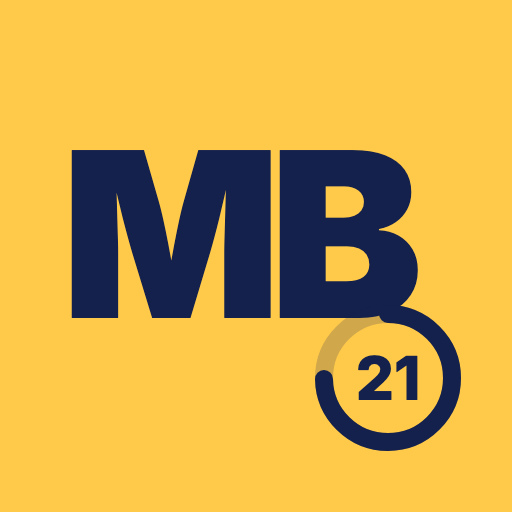
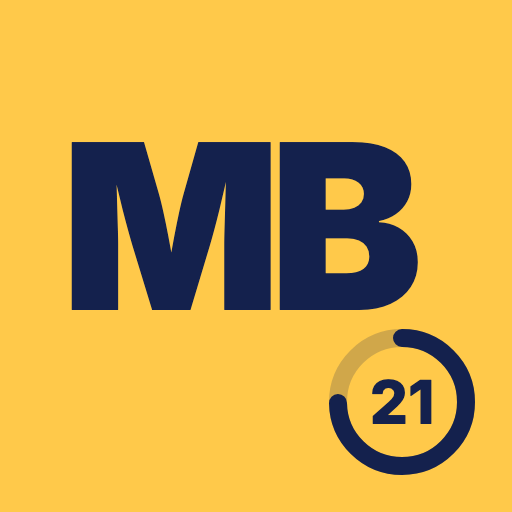
Pagine 122, correzione (Ignazio 28/10, via Regia, «sì»): la «B» staccata dall'anello: anello e «21» più in basso a destra (centro 402,402), «MB» un poco più su (base 310), circa 23 px di spazio; icone 32/180/192/512 e foto rifatte; nessun database

diff --git a/STRUTTURA.md b/STRUTTURA.md
@@ -1289,7 +1289,7 @@ Le 4 righe Partner/Cliente · Contatto · Richiamare/Appuntamento sono state agg
 - **Il colore della categoria è uno solo in tutta l'app** (Ignazio 19/09): tondo con le iniziali (coda, Lista, testata della scheda, Report aperto), barretta delle azioni nella scheda e **barretta degli appuntamenti in Agenda** (`classeCat(e.contatti.categoria)`; i colori per tipo di azione di `MB21Agenda.COLORI` restano solo nei calendari e nelle prove). Negli elenchi la riga resta **bianca**: la tinta `--cat-*-tinta` si usa solo dove c'è una persona sola (testata della scheda)
 - **Scorciatoie dello stile** (cantiere 34 lavoro 3, in `index.html`, usate da tutte le pagine): `ic(nome, px)` = `MB21Icone.icona` · `classeCat(categoria)` → `cat-prospect` · `cat-cliente` · `cat-partner` · `cat-ex` (anche Referral) · `cat-unlinked` · `cat-archiviato` · `cat-nessuna`: la classe dà alla card `--cat` (colore pieno) e `--cat-tinta` (fondo), regola `.card[class*="cat-"]` · `iniziali(nome)` → due lettere per la pastiglia `.rc-pastiglia` · `.pallino` (cerchietto colorato al posto delle emoji 🔵🟠🟢🟣🔴) · `.ic-vuoto` (cerchietto vuoto: passo non fatto). Le emoji di una pagina si sostituiscono con `python3 tools/design/emoji_in_icone.py <file.js> [prima_riga] [ultima_riga]`
 - **Lo stile dell'app** (cantiere 34, dal 19/09/2026): la fonte unica è `docs/MB21_Design.md` (direzione scelta da Ignazio in Claude Design: fondo perla, card bianche tonde, un solo accento «inchiostro», righe tinte del colore di categoria, 26 px fra le sezioni). In `index.html` i valori stanno **solo** nel blocco `:root` in cima al foglio di stile (`--sfondo`, `--superficie`, `--testo`, `--accento`, `--cat-*` e `--cat-*-tinta`, `--bbs` `--wes` `--cep`, `--ok` `--pericolo` `--proposta`, `--dim-*`, `--s1…s7`, `--raggio-*`, `--ombra-*`, `--bottone-h`, `--pill-h`, `--tocco`); il resto del foglio usa `var(--…)`. I nomi di prima (`--card`, `--grigio`, `--grigio-chiaro`, `--linea`, `--blu`, `--verde`, `--rosso`, `--prospect`, `--cliente`, `--partner`, `--ex`, `--unlinked`) restano come **alias** dei nuovi e si tolgono pagina per pagina. Regola: **le voci dell'app non cambiano**, cambia solo il vestito; un colore o una misura nuova si aggiunge a `:root` e al documento, mai scritta a mano in una pagina
-File: `index.html` (pagina unica, supabase-js da jsdelivr) · **`pagina-agenda.js`** (MB Plan, l'Agenda, cantiere 41: foglio del giorno, Settimana, Mese, Anno, modelli personali, cose da fare, Timeline, cerca, trascinamento — tutto il blocco «AGENDA» spostato così com'era da `index.html` il 23/09/2026, codice identico, circa 1.720 righe; si carica dopo `agenda.js` e prima dello script della pagina: solo definizioni e ascolti; lo stile resta in `index.html`; dove sotto si legge «in `index.html`» per le funzioni di MB Plan, ora è questo file; l'anteprima `tools/design/anteprima_agenda.js` lo rimette al suo posto per le prove) · **`core.js`** + **`pagina-core.js`** (cantiere 41: il Modulo Core del mese) + **`core-pdf.js`** (il Modulo Core in PDF, A4 su due colonne; jsPDF da jsdelivr) · **`libri.js`** (cantiere 40 lavoro 7: il diario di lettura dai Check, funzioni pure, prove in `tools/banco/prova_libri.js`) · **`pagina-libri.js`** (la pagina «I miei libri»: `apriLibri(ritorno)`, dal Profilo e da «Il mio percorso») · `coda.js` (motore della coda) · `lista.js` (logica della Lista Nomi) · **`sharing.js`** (cantiere 40: il consiglio della prossima traccia, funzioni pure, prove in `tools/banco/prova_sharing.js`) · **`training.js`** + **`pagina-training.js`** (cantieri 42 e 45, 24/09: la pagina Training — Impara, Ripassa, Studia —, accesa per tutti dal 24/09 sera; vedi sopra) · **`pagina-coach.js`** (cantiere 42: il coach collegato all'app, solo definizioni: `chiediRiflessione` dopo ogni esito, `chiediCoach` che apre il foglio della chat, legge `coach_batterie` e salva `azioni.riflessione`; il promemoria `caricaRicordi` e `ricordoHtml`; spostato da index.html il 24/09) · **`coach.js`** (cantiere 42: il coach che parla, quale chat vale per un esito, il montatore a imbuto, il motore della chat, il promemoria «Ti eri detto…»; i messaggi sono nella tabella `coach_batterie`; prove in `tools/banco/prova_coach.js`; al suo posto c'era `riflessione.js`, il foglietto, tolto il 24/09) · **`pagina-sharing.js`** (la sezione Sharing della scheda: `sezioneSharing`, `registraCondivisione`, `segnaAscoltata`, `condivisioneAMano`, `modificaCondivisione`, `chiediSesso`) · **`pagina-vendite.js`** (Vendite nella scheda contatto, cantiere 26: `sezioneVendite`, `venditeDellaScheda`, `moduloVendita`, `ordineFatto`, `mostraBrand`; spostata così com'era da `pagina-lista.js` il 18/09; si carica subito dopo `pagina-lista.js`. **Regola di Ignazio 18/09: ogni sezione della scheda contatto ha il suo file**, così sarà per Sharing e le prossime; i calcoli restano in `lista.js`) · `dashboard.js` (calcoli della Dashboard) · `agenda.js` (logica dell'Agenda) · `report.js` (calcoli del Report) · `check.js` (calcoli del Check) · `benvenuto.js` (testi e calcoli del benvenuto, cantiere 32) — separati per provarli con node · **`pagina-benvenuto.js`** (benvenuto per chi entra la prima volta, cantiere 32: le cinque schermate, la cerchia ristretta, la riga «📲» in Dashboard; nato già nel suo file) · **`admin.js`** (pagina Admin: menu, Utenti e richieste, Schede dei partner, Wes, BBS, Carica file Amway; spostata da `index.html` il 16/09, si carica prima dello script della pagina e usa le sue funzioni; in `index.html` restano i fogli condivisi `chiediConferma`, `foglioLinkInvito`, `domandaInvito`, `foglioRinnovo`) · **`pagina-mappa.js`** (pagina Mappa: albero, filtri, targhette, visione completa, e la lettura dei Segni Vitali `leggiSegniGrezzi`/`calcolatoreSegni` usata anche da Dashboard e Check; spostata da `index.html` il 17/09 nel cantiere 20, codice identico) · **`pagina-dashboard.js`** (pagina Dashboard/OGGI: coda, Da catalogare, conferme, numeri, Obiettivi, Check del Giorno; spostata da `index.html` il 17/09 come `admin.js`, codice identico; serve anche ad altre pagine per `caricaOggi`, `registraEsito`, `annullaEsito`, `chiediData`, `bottoniPer`, `appuntamentoDaCoda`, `dataBreve`, `CONF`, `CAMPI_AZIONE`; `mostraToast` resta in `index.html`) · **`pagina-lista.js`** (pagina Lista Nomi: elenco e filtri, scheda contatto, Nuovo Contatto / Modifica; spostata da `index.html` il 17/09, codice identico; definisce anche `LS`, `eAdmin`, `apriContattoDa`, `rigaPortato` usati da altre pagine; il foglio unico «Modifica azione» resta in `index.html` perché serve a Report, Agenda e scheda) · **`avvisi.js`** (avvisi push, cantiere 24: stato del dispositivo, attiva/spegni/prova; dal cantiere 25 i bottoni stanno nel Profilo) · **`pagina-profilo.js`** (pagina «Profilo», cantiere 25: cerchietto con le iniziali in Dashboard, dati della persona, telefono, Contatti al giorno, avvisi, «✨ Novità dell'app», Cambia password, Esci) · **`pagina-novita.js`** (la parte che si vede di «✨ Novità» e di «C'è una versione più recente»: `controllaNovita`, `foglioNovita`, `ultimaVersione`, `foglioVersione`, `versione()` con i suoi due ascolti; spostata da `index.html` il 18/09 su richiesta di Ignazio, codice identico; si carica subito dopo `novita.js`; dove sotto si legge «in `index.html`» per queste funzioni, ora è questo file; in `index.html` resta solo la chiamata in `dopoAccesso`) · **`novita.js`** («✨ Novità», cantiere 28, 18/09: `ELENCO` delle novità che i partner vedono, una riga = `quando` come `APP_VERSION` · `titolo` · `testo`; dal 18/09 sera anche `pagina` (`PAGINE`: dashboard · agenda · lista · report · mappa · app): il foglio mostra le novità **raggruppate per pagina** con `MB21Novita.perPagina(elenco)` (ordine delle tab in basso, «📱 Tutta l'app» in fondo, solo i gruppi con qualcosa; pagina sconosciuta → «Tutta l'app») e **solo i titoli**: toccando un titolo (`<details>`) si apre il testo con la data; **regola: a ogni modifica visibile ai partner si aggiunge una riga in cima, nello stesso commit**; le modifiche invisibili e quelle solo per l'Admin non si scrivono. `MB21Novita.daMostrare(elenco, vistaFino, ultimoUso)` → `{ nuove, altre, segna }`: primo ingresso (`ultimo_uso` vuoto) = niente foglio e si ricorda l'ultima novità; altrimenti le novità dopo l'ultimo «Ho capito», al massimo 10 (`MASSIMO`) + «vedi tutte». In `index.html`: `dopoAccesso` legge `utenti.ultimo_uso` **prima** di `segna_uso()`, poi `controllaNovita(ultimoUso)` → `foglioNovita(r, ultimoUso)` («✨ Novità dall'ultima volta», sotto «**Ultimo ingresso: GG/MM/AAAA · HH:MM**» con `MB21Novita.momentoLeggibile`, stesso formato della data delle novità per confrontare le ore; bottone «Ho capito»); `foglioNovita()` senza argomenti = elenco completo (dal Profilo e da «vedi tutte»), con la riga «La tua versione: …» (`APP_VERSION`) sotto il titolo. Il foglio torna a ogni apertura finché non si tocca «Ho capito»: fino a quale novità è stato toccato si ricorda **sul dispositivo** (`localStorage`, chiave `mb21_novita_<id utente>`), niente nel database; per le prove, aprendo l'app con **`?novita=rivedi`** il dispositivo dimentica «Ho capito» e il foglio torna; telefono nuovo = si rivedono una volta le ultime 10. Se c'è da scegliere la password il foglio delle novità aspetta l'apertura dopo; offline o con la memoria del dispositivo bloccata non si apre niente e l'app parte lo stesso. **«C'è una versione più recente»** (lavoro 4, 18/09): all'apertura la pagina è già l'ultima (`sw.js`: prima la rete); quando l'app **torna in primo piano** (`visibilitychange`, al massimo ogni 30 minuti, solo da entrati) `ultimaVersione()` rilegge la pagina pubblicata (`fetch(location.pathname, no-store)`) e `MB21Novita.versioneDa(testo)` ne estrae la `APP_VERSION`; se `MB21Novita.piuRecente(ultima, APP_VERSION)` → `foglioVersione(ultima)`: «La tua versione · Ultima versione · Ti consigliamo di aggiornare», «Più tardi» (per quella versione non lo richiede fino alla prossima apertura) · «Aggiorna ora» (`location.reload()`). Nessun file di versione a parte da tenere allineato. Offline o errore: niente. Nel foglio «Novità dell'app» del Profilo accanto a «La tua versione» compare «✅ è l'ultima» oppure «🔄 Ultima versione: … · Aggiorna ora». **Riga in fondo a ogni pagina** (18/09 sera): `versione()` (unica, usata da tutte le pagine) scrive «✨ Novità · Versione GG/MM/AAAA · HH:MM» e si tocca (un solo ascolto dei tocchi su `.versione`) → `foglioNovita()`; quando `ultimaVersione()` scopre una versione più recente la ricorda in `VER.ultima` e riscrive subito le righe presenti in «🔄 C'è una versione più recente · tocca per aggiornare» (`.versione.nuova`, blu) → `foglioVersione`. Sotto «Ho capito» la riga «Le ritrovi quando vuoi: tocca «✨ Novità» in fondo a ogni pagina». 9 prove in `tools/banco/prova_novita.js`) · `sw.js` (copia offline **e ricezione degli avvisi push**: `push` mostra la notifica, `notificationclick`: con l'app **chiusa** la apre sull'indirizzo dell'avviso; con l'app **già aperta** la porta davanti e le manda il messaggio `{ tipo: 'apri-avviso', url }` (dal 24/09: prima `navigate()`, che sull'iPhone non funzionava e lasciava la Dashboard). In `index.html` **`preparaApertura(parametri)`**, una sola per i due casi (anche `dopoAccesso` la usa): `?apri=agenda` → MB Plan **vista Giorno** di `giorno` (o oggi) con `azione` già aperta · `?apri=check` · `?apri=lista&contatto=…&sezione=…`; il messaggio chiude i fogli aperti (`.velo`) e chiama `mostraTab()` senza ricaricare; un indirizzo senza `apri` (traccia da ascoltare, prova) porta alla Dashboard) · `manifest.webmanifest` · `icone/` (icona dell'app `icona-32/180/192/512.png`, angoli quadrati perché li arrotonda il telefono: dal 28/10/2026 il «Bollino ad anello», proposta 3C della tela Design «Logo MB21» — fondo `#FFC94A`, «MB» blu `#14214D`, anello al 75% con «21» —, al posto della stella cometa; nota Pagine 122; il testo è già nell'immagine, disegnata con Inter da Chrome senza finestra; la copia `v4/` tiene l'icona vecchia).
+File: `index.html` (pagina unica, supabase-js da jsdelivr) · **`pagina-agenda.js`** (MB Plan, l'Agenda, cantiere 41: foglio del giorno, Settimana, Mese, Anno, modelli personali, cose da fare, Timeline, cerca, trascinamento — tutto il blocco «AGENDA» spostato così com'era da `index.html` il 23/09/2026, codice identico, circa 1.720 righe; si carica dopo `agenda.js` e prima dello script della pagina: solo definizioni e ascolti; lo stile resta in `index.html`; dove sotto si legge «in `index.html`» per le funzioni di MB Plan, ora è questo file; l'anteprima `tools/design/anteprima_agenda.js` lo rimette al suo posto per le prove) · **`core.js`** + **`pagina-core.js`** (cantiere 41: il Modulo Core del mese) + **`core-pdf.js`** (il Modulo Core in PDF, A4 su due colonne; jsPDF da jsdelivr) · **`libri.js`** (cantiere 40 lavoro 7: il diario di lettura dai Check, funzioni pure, prove in `tools/banco/prova_libri.js`) · **`pagina-libri.js`** (la pagina «I miei libri»: `apriLibri(ritorno)`, dal Profilo e da «Il mio percorso») · `coda.js` (motore della coda) · `lista.js` (logica della Lista Nomi) · **`sharing.js`** (cantiere 40: il consiglio della prossima traccia, funzioni pure, prove in `tools/banco/prova_sharing.js`) · **`training.js`** + **`pagina-training.js`** (cantieri 42 e 45, 24/09: la pagina Training — Impara, Ripassa, Studia —, accesa per tutti dal 24/09 sera; vedi sopra) · **`pagina-coach.js`** (cantiere 42: il coach collegato all'app, solo definizioni: `chiediRiflessione` dopo ogni esito, `chiediCoach` che apre il foglio della chat, legge `coach_batterie` e salva `azioni.riflessione`; il promemoria `caricaRicordi` e `ricordoHtml`; spostato da index.html il 24/09) · **`coach.js`** (cantiere 42: il coach che parla, quale chat vale per un esito, il montatore a imbuto, il motore della chat, il promemoria «Ti eri detto…»; i messaggi sono nella tabella `coach_batterie`; prove in `tools/banco/prova_coach.js`; al suo posto c'era `riflessione.js`, il foglietto, tolto il 24/09) · **`pagina-sharing.js`** (la sezione Sharing della scheda: `sezioneSharing`, `registraCondivisione`, `segnaAscoltata`, `condivisioneAMano`, `modificaCondivisione`, `chiediSesso`) · **`pagina-vendite.js`** (Vendite nella scheda contatto, cantiere 26: `sezioneVendite`, `venditeDellaScheda`, `moduloVendita`, `ordineFatto`, `mostraBrand`; spostata così com'era da `pagina-lista.js` il 18/09; si carica subito dopo `pagina-lista.js`. **Regola di Ignazio 18/09: ogni sezione della scheda contatto ha il suo file**, così sarà per Sharing e le prossime; i calcoli restano in `lista.js`) · `dashboard.js` (calcoli della Dashboard) · `agenda.js` (logica dell'Agenda) · `report.js` (calcoli del Report) · `check.js` (calcoli del Check) · `benvenuto.js` (testi e calcoli del benvenuto, cantiere 32) — separati per provarli con node · **`pagina-benvenuto.js`** (benvenuto per chi entra la prima volta, cantiere 32: le cinque schermate, la cerchia ristretta, la riga «📲» in Dashboard; nato già nel suo file) · **`admin.js`** (pagina Admin: menu, Utenti e richieste, Schede dei partner, Wes, BBS, Carica file Amway; spostata da `index.html` il 16/09, si carica prima dello script della pagina e usa le sue funzioni; in `index.html` restano i fogli condivisi `chiediConferma`, `foglioLinkInvito`, `domandaInvito`, `foglioRinnovo`) · **`pagina-mappa.js`** (pagina Mappa: albero, filtri, targhette, visione completa, e la lettura dei Segni Vitali `leggiSegniGrezzi`/`calcolatoreSegni` usata anche da Dashboard e Check; spostata da `index.html` il 17/09 nel cantiere 20, codice identico) · **`pagina-dashboard.js`** (pagina Dashboard/OGGI: coda, Da catalogare, conferme, numeri, Obiettivi, Check del Giorno; spostata da `index.html` il 17/09 come `admin.js`, codice identico; serve anche ad altre pagine per `caricaOggi`, `registraEsito`, `annullaEsito`, `chiediData`, `bottoniPer`, `appuntamentoDaCoda`, `dataBreve`, `CONF`, `CAMPI_AZIONE`; `mostraToast` resta in `index.html`) · **`pagina-lista.js`** (pagina Lista Nomi: elenco e filtri, scheda contatto, Nuovo Contatto / Modifica; spostata da `index.html` il 17/09, codice identico; definisce anche `LS`, `eAdmin`, `apriContattoDa`, `rigaPortato` usati da altre pagine; il foglio unico «Modifica azione» resta in `index.html` perché serve a Report, Agenda e scheda) · **`avvisi.js`** (avvisi push, cantiere 24: stato del dispositivo, attiva/spegni/prova; dal cantiere 25 i bottoni stanno nel Profilo) · **`pagina-profilo.js`** (pagina «Profilo», cantiere 25: cerchietto con le iniziali in Dashboard, dati della persona, telefono, Contatti al giorno, avvisi, «✨ Novità dell'app», Cambia password, Esci) · **`pagina-novita.js`** (la parte che si vede di «✨ Novità» e di «C'è una versione più recente»: `controllaNovita`, `foglioNovita`, `ultimaVersione`, `foglioVersione`, `versione()` con i suoi due ascolti; spostata da `index.html` il 18/09 su richiesta di Ignazio, codice identico; si carica subito dopo `novita.js`; dove sotto si legge «in `index.html`» per queste funzioni, ora è questo file; in `index.html` resta solo la chiamata in `dopoAccesso`) · **`novita.js`** («✨ Novità», cantiere 28, 18/09: `ELENCO` delle novità che i partner vedono, una riga = `quando` come `APP_VERSION` · `titolo` · `testo`; dal 18/09 sera anche `pagina` (`PAGINE`: dashboard · agenda · lista · report · mappa · app): il foglio mostra le novità **raggruppate per pagina** con `MB21Novita.perPagina(elenco)` (ordine delle tab in basso, «📱 Tutta l'app» in fondo, solo i gruppi con qualcosa; pagina sconosciuta → «Tutta l'app») e **solo i titoli**: toccando un titolo (`<details>`) si apre il testo con la data; **regola: a ogni modifica visibile ai partner si aggiunge una riga in cima, nello stesso commit**; le modifiche invisibili e quelle solo per l'Admin non si scrivono. `MB21Novita.daMostrare(elenco, vistaFino, ultimoUso)` → `{ nuove, altre, segna }`: primo ingresso (`ultimo_uso` vuoto) = niente foglio e si ricorda l'ultima novità; altrimenti le novità dopo l'ultimo «Ho capito», al massimo 10 (`MASSIMO`) + «vedi tutte». In `index.html`: `dopoAccesso` legge `utenti.ultimo_uso` **prima** di `segna_uso()`, poi `controllaNovita(ultimoUso)` → `foglioNovita(r, ultimoUso)` («✨ Novità dall'ultima volta», sotto «**Ultimo ingresso: GG/MM/AAAA · HH:MM**» con `MB21Novita.momentoLeggibile`, stesso formato della data delle novità per confrontare le ore; bottone «Ho capito»); `foglioNovita()` senza argomenti = elenco completo (dal Profilo e da «vedi tutte»), con la riga «La tua versione: …» (`APP_VERSION`) sotto il titolo. Il foglio torna a ogni apertura finché non si tocca «Ho capito»: fino a quale novità è stato toccato si ricorda **sul dispositivo** (`localStorage`, chiave `mb21_novita_<id utente>`), niente nel database; per le prove, aprendo l'app con **`?novita=rivedi`** il dispositivo dimentica «Ho capito» e il foglio torna; telefono nuovo = si rivedono una volta le ultime 10. Se c'è da scegliere la password il foglio delle novità aspetta l'apertura dopo; offline o con la memoria del dispositivo bloccata non si apre niente e l'app parte lo stesso. **«C'è una versione più recente»** (lavoro 4, 18/09): all'apertura la pagina è già l'ultima (`sw.js`: prima la rete); quando l'app **torna in primo piano** (`visibilitychange`, al massimo ogni 30 minuti, solo da entrati) `ultimaVersione()` rilegge la pagina pubblicata (`fetch(location.pathname, no-store)`) e `MB21Novita.versioneDa(testo)` ne estrae la `APP_VERSION`; se `MB21Novita.piuRecente(ultima, APP_VERSION)` → `foglioVersione(ultima)`: «La tua versione · Ultima versione · Ti consigliamo di aggiornare», «Più tardi» (per quella versione non lo richiede fino alla prossima apertura) · «Aggiorna ora» (`location.reload()`). Nessun file di versione a parte da tenere allineato. Offline o errore: niente. Nel foglio «Novità dell'app» del Profilo accanto a «La tua versione» compare «✅ è l'ultima» oppure «🔄 Ultima versione: … · Aggiorna ora». **Riga in fondo a ogni pagina** (18/09 sera): `versione()` (unica, usata da tutte le pagine) scrive «✨ Novità · Versione GG/MM/AAAA · HH:MM» e si tocca (un solo ascolto dei tocchi su `.versione`) → `foglioNovita()`; quando `ultimaVersione()` scopre una versione più recente la ricorda in `VER.ultima` e riscrive subito le righe presenti in «🔄 C'è una versione più recente · tocca per aggiornare» (`.versione.nuova`, blu) → `foglioVersione`. Sotto «Ho capito» la riga «Le ritrovi quando vuoi: tocca «✨ Novità» in fondo a ogni pagina». 9 prove in `tools/banco/prova_novita.js`) · `sw.js` (copia offline **e ricezione degli avvisi push**: `push` mostra la notifica, `notificationclick`: con l'app **chiusa** la apre sull'indirizzo dell'avviso; con l'app **già aperta** la porta davanti e le manda il messaggio `{ tipo: 'apri-avviso', url }` (dal 24/09: prima `navigate()`, che sull'iPhone non funzionava e lasciava la Dashboard). In `index.html` **`preparaApertura(parametri)`**, una sola per i due casi (anche `dopoAccesso` la usa): `?apri=agenda` → MB Plan **vista Giorno** di `giorno` (o oggi) con `azione` già aperta · `?apri=check` · `?apri=lista&contatto=…&sezione=…`; il messaggio chiude i fogli aperti (`.velo`) e chiama `mostraTab()` senza ricaricare; un indirizzo senza `apri` (traccia da ascoltare, prova) porta alla Dashboard) · `manifest.webmanifest` · `icone/` (icona dell'app `icona-32/180/192/512.png`, angoli quadrati perché li arrotonda il telefono: dal 28/10/2026 il «Bollino ad anello», proposta 3C della tela Design «Logo MB21» — fondo `#FFC94A`, «MB» blu `#14214D`, anello al 75% con «21» —, al posto della stella cometa; rispetto alla tela l'anello è più in basso a destra (centro 402,402, «21» a base 424) e «MB» un poco più su (base 310), così la «B» non tocca l'anello: circa 23 px di spazio nel quadrato da 512, Ignazio 28/10; nota Pagine 122; il testo è già nell'immagine, disegnata con Inter da Chrome senza finestra; la copia `v4/` tiene l'icona vecchia).
 
 - **Registrazione** (cantiere 19, decisioni di Ignazio 16/09: approva **solo l'Admin**, codice Amway obbligatorio): indirizzo con `?registrati` (e `&da=<id utente>`) **senza essere entrati** → modulo «Registrati a MB21» (nome e cognome, email, telefono, codice Amway) → `richiedi_accesso` → «Richiesta inviata ✅» o messaggio (troppe, dati; dal 03/10, Fondamenta 035, migrazione `20261003100000` da applicare al rilascio: email già di un utente o richiesta già in attesa → «ok» come a tutti, così chi prova email a caso non scopre chi usa l'app; freno di 3 richieste al giorno per email, globale 100 l'ora invece di 20). «Sono già registrato: entra» toglie `?registrati` e mostra l'accesso. Da entrati il link apre l'app normale. **Invito del partner** (Ignazio 16/09): quando un contatto **diventa Partner** (Modifica / Nuovo contatto, «Da catalogare», Nuovo appuntamento con categoria cambiata; non da «Crea la scheda» della Mappa) compare `domandaInvito`: «<nome> è diventato Partner · Vuoi invitarlo nell'app MB21?» → **🔗 Invita nell'app MB21** o Annulla. Nella **scheda contatto di ogni Partner** c'è «🔗 Invita nell'app MB21» **oppure la targhetta «✅ Utente MB21»** se la persona è già utente dell'app (Ignazio 17/09; `mostraInvito` → **`e_utente_mb21(contatto)`**, migrazione `20260917130000_e_utente_mb21.sql`, `security definer` perché ogni partner legge solo la propria riga di `utenti`; risponde solo sì/no): **codice Amway della scheda → email di `squadra` (file Amway) → utente con quella email**, eliminati esclusi. Niente confronto per nome (ognuno lo scrive come vuole: Tonya/Antonina) né per solo codice (la coppia lo condivide; in Amway c'è uno solo dei due e la sua è l'unica scheda col codice, quindi il compagno/a tiene il bottone finché non si registra). **Collegamento a mano dell'Admin** (migrazione `20260917133000_utente_mb21_collegato.sql`): `contatti.utente_id` → `utenti.id`, scritto solo da **`collega_utente_mb21(contatto, utente)`** (solo Admin; `null` scollega) dal bottone «🔗 È già utente MB21: collega» nella scheda (menu degli utenti non eliminati) / «✕ Scollega dall'utente»; `e_utente_mb21` restituisce `'collegato'` · `'amway'` · null. **In Lista Nomi** targhetta viola **«MB21»** accanto al nome (card e scheda) da **`schede_utenti_mb21()`** (solo gli id, letti all'apertura della Lista con le targhette; `LS.mb21`, `segnaMb21` scrive `r.mb21` sulle righe) e parola **«mb21»** in Cerca (`corrisponde` in `lista.js`) per vederli tutti. Il foglio `foglioLinkInvito({ da, nome, telefono })`: link con `da` = **proprietario della lista** (lo sponsor, anche se è l'Admin a toccare con il Partner Select), messaggio «Ciao <nome>, registrati all'app MB21 da questo link: …» **nel riquadro, modificabile** (Copia il messaggio, WhatsApp, Telegram, SMS e Altre app mandano il testo com'è al tocco), WhatsApp e SMS **indirizzati al numero della scheda** (se ha il «+»). Nella richiesta da approvare: «⚠ codice non ancora nella Mappa» se il codice non è in `squadra` Cambia la decisione del brief Fase 1 («nessuna registrazione libera»): la registrazione c'è ma serve l'approvazione
 - **Benvenuto per chi entra la prima volta** (cantiere 32, 16 decisioni di Ignazio del 19/09; pubblicato il 19/09, versione 2026.09.19 · 10:41): **`benvenuto.js`** (`MB21Benvenuto`, funzioni pure, prove in `tools/banco/prova_benvenuto.js`: `VOCI` le 7 voci di «Perché iniziare» del Piano Marketing N21 + `ALTRO` · `PAGINE` le 5 pagine in basso con icona e riga, **unico punto dove stanno le icone** · `SPUNTI` della cerchia ristretta dal Manuale pag. 6 · `SCHERMATE` · `pulisciPerche` · `percheDaScelte` / `scelteDaPerche` · `percheRighe` · `daAprire` · `contoCerchia` · `nomeVeloce` · `rigaTelefono`) e **`pagina-benvenuto.js`** (la parte che si vede; si carica dopo `pagina-novita.js`):
